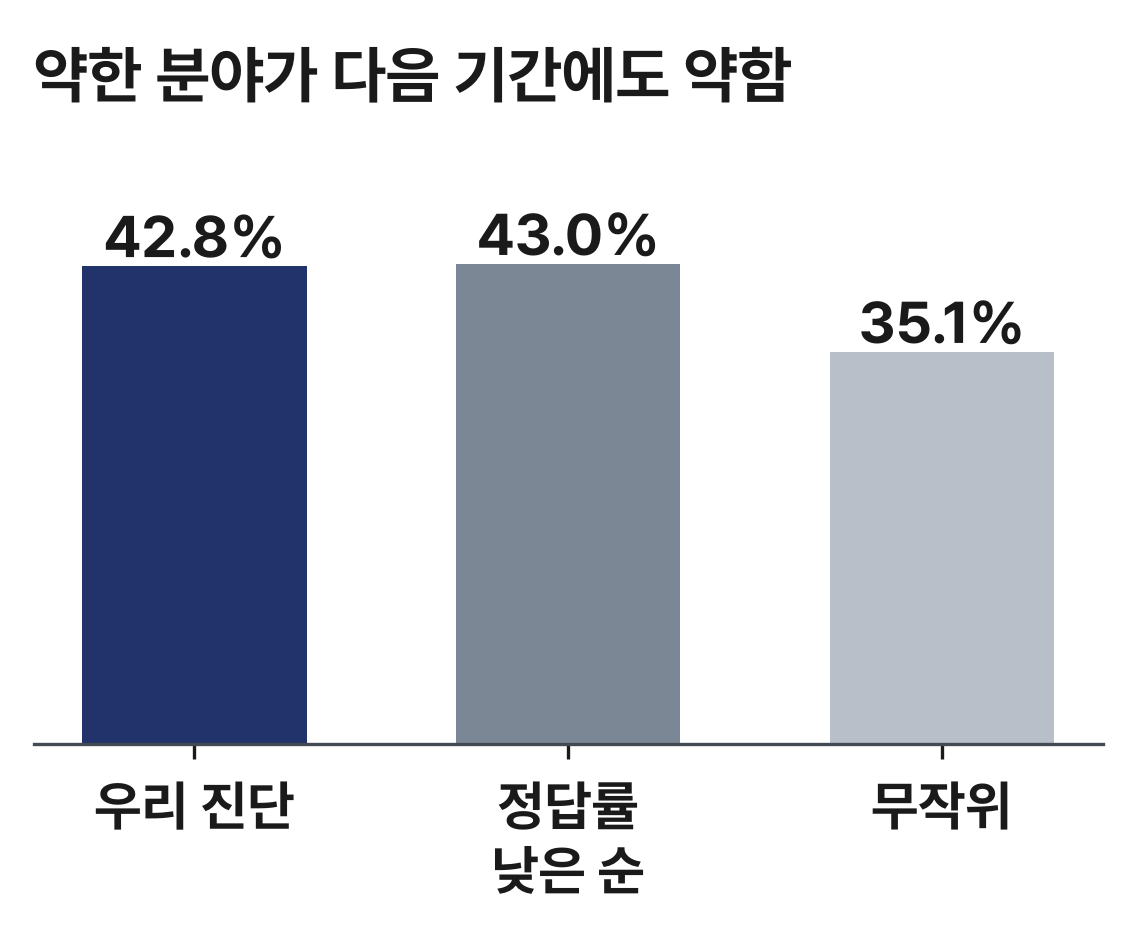
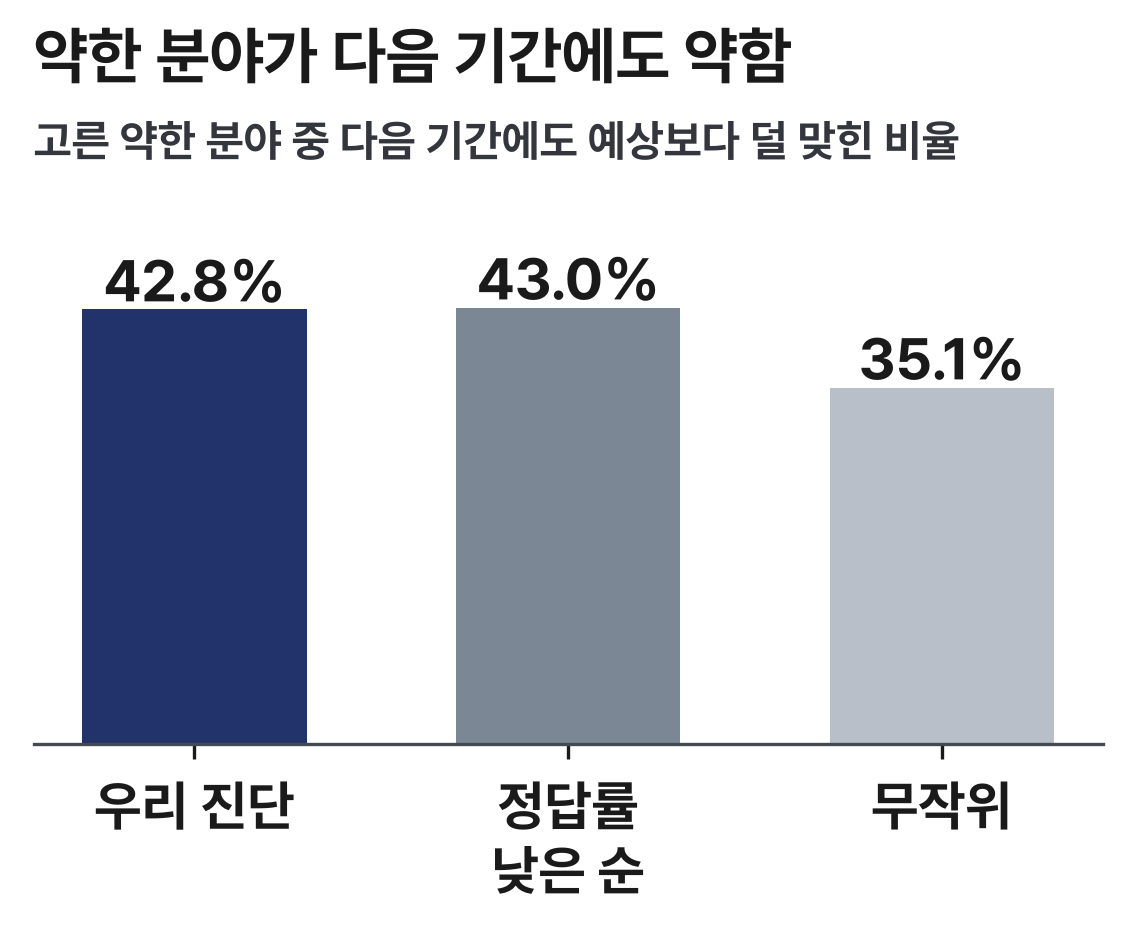
그래프 종류 다양화·설명 다듬기 (도넛, 화살표, 막대 설명 줄)
- fig2: 전체 판정을 도넛으로 (합 8,502명)
- fig3: 제목 아래 '고른 약한 분야 중 다음 기간에도 예상보다 덜 맞힌 비율' 설명 추가
- fig4: AUC를 점·화살표로, 줄 이름을 풀어 쓰고 이름은 점 위 바깥쪽·숫자는 점 아래로 배치
- README 설명 수정

diff --git a/make_figures.py b/make_figures.py
@@ -78,24 +78,27 @@ fig, ax = plt.subplots(figsize=(3.75, 3.1))
 ax.bar(["우리 진단", "정답률\n낮은 순", "무작위"], v2.values, color=[NAVY, MID, "#B8BFC9"], width=0.6)
 for i, v in enumerate(v2.values): ax.text(i, v + 0.8, f"{v:.1f}%", ha="center", fontsize=14)
 ax.set_ylim(0, 55); ax.set_yticks([]); ax.spines["left"].set_visible(False); ax.tick_params(axis="x", labelsize=13)
-ax.set_title("약한 분야가 다음 기간에도 약함", fontsize=15, loc="left", pad=8)
-fig.subplots_adjust(left=0.03, right=0.98, top=0.86, bottom=0.2); fig.savefig(OUT / "fig3_약한분야_적중률.png"); plt.close(fig)
+ax.set_title("약한 분야가 다음 기간에도 약함", fontsize=15, loc="left", pad=26)
+ax.text(0.0, 1.035, "고른 약한 분야 중 다음 기간에도 예상보다 덜 맞힌 비율", transform=ax.transAxes, fontsize=10.5, color=SUB, va="bottom")
+fig.subplots_adjust(left=0.03, right=0.98, top=0.80, bottom=0.2); fig.savefig(OUT / "fig3_약한분야_적중률.png"); plt.close(fig)
 check["그림3"] = [round(x, 1) for x in v2.values]
 
 # ---------- 그림 4 (03 분석 결과): 다음 기간 정답 예측 정확도(AUC) — '이전 → 이후'가 핵심이라 점 두 개를 화살표로 이음
 v3 = pd.read_csv(o / "step6_②예측.csv", index_col=0)["AUC"]; v4 = pd.read_csv(o / "step6_③레이팅.csv", index_col=0)["AUC"]
-rows = [("실력 점수 바꾸기", "공식 실력 점수", v4.iloc[1], "평소 실력 점수", v4.iloc[0]),
-        ("진단 결과 더하기", "공식 점수만", v3.iloc[0], "+ 진단 결과", v3.iloc[1])]
+rows = [("공식 점수 대신 평소 실력 점수로", "공식 실력 점수", v4.iloc[1], "평소 실력 점수", v4.iloc[0]),
+        ("공식 점수에 진단 결과 추가", "공식 점수만", v3.iloc[0], "+ 진단 결과", v3.iloc[1])]
 fig, ax = plt.subplots(figsize=(3.75, 3.1))
 for i, (ttl, l0, a0, l1, a1) in enumerate(rows):
-    y = 1 - i
-    ax.annotate("", xy=(a1, y), xytext=(a0, y), arrowprops=dict(arrowstyle="-|>,head_length=0.7,head_width=0.4", color=NAVY, lw=2.6, shrinkA=7, shrinkB=7))
-    ax.scatter([a0], [y], s=110, color=MID, zorder=3); ax.scatter([a1], [y], s=130, color=NAVY, zorder=3)
-    ax.text(a0 - 0.0018, y, f"{l0}\n{a0:.3f}", ha="right", va="center", fontsize=11.5, color=SUB, linespacing=1.15)
-    ax.text(a1 + 0.0018, y, f"{l1}\n{a1:.3f}", ha="left", va="center", fontsize=11.5, color=NAVY, linespacing=1.15)
-    ax.text(0.697, y + 0.36, ttl, fontsize=12.5, va="bottom")
-ax.set_xlim(0.695, 0.768); ax.set_ylim(-0.45, 1.62); ax.set_yticks([])
-ax.set_xticks([0.70, 0.72, 0.74, 0.76]); ax.tick_params(axis="x", labelsize=11)
+    y = (1 - i) * 1.3
+    ax.annotate("", xy=(a1, y), xytext=(a0, y), arrowprops=dict(arrowstyle="-|>,head_length=0.6,head_width=0.35", color=NAVY, lw=2.4, shrinkA=6, shrinkB=6))
+    ax.scatter([a0], [y], s=100, color=MID, zorder=3); ax.scatter([a1], [y], s=120, color=NAVY, zorder=3)
+    ax.text(a0 + 0.0006, y + 0.14, l0, ha="right", va="bottom", fontsize=11, color=SUB)          # 이름: 시작 점은 왼쪽으로, 끝 점은 오른쪽으로 뻗게
+    ax.text(a1 - 0.0006, y + 0.14, l1, ha="left", va="bottom", fontsize=11, color=NAVY)
+    ax.text(a0, y - 0.16, f"{a0:.3f}", ha="center", va="top", fontsize=13, color=SUB)
+    ax.text(a1, y - 0.16, f"{a1:.3f}", ha="center", va="top", fontsize=14, color=NAVY)
+    ax.text(0.7015, y + 0.50, ttl, fontsize=11.5, va="bottom")
+ax.set_xlim(0.701, 0.756); ax.set_ylim(-0.50, 2.10); ax.set_yticks([])
+ax.set_xticks([0.71, 0.72, 0.73, 0.74, 0.75]); ax.tick_params(axis="x", labelsize=10.5)
 ax.spines["left"].set_visible(False)
 ax.set_title("다음 기간 정답 예측 정확도(AUC)", fontsize=15, loc="left", pad=8)
 fig.subplots_adjust(left=0.03, right=0.97, top=0.86, bottom=0.11); fig.savefig(OUT / "fig4_예측정확도_AUC.png"); plt.close(fig)

diff --git a/README.md b/README.md
@@ -27,7 +27,7 @@ algofit_figures/
 | fig1 | 정답률 구간별 학습자 수(왼쪽)와, 그중 정답률 95% 이상인 학습자를 펼쳐 본 공식 실력 점수 분포(오른쪽). 95% 이상 막대와 오른쪽 그래프를 같은 주황색과 화살표로 연결함 | 왼쪽 막대 합 8,502명, 오른쪽 막대 합 4,081명, 정답률 90% 이상 79.3%, 점수 범위 360~3,803점 |
 | fig2 | 공식 실력 점수와 비교한 전체 판정 (합이 전체 인원이라 도넛으로 표시) | 실력 부족 1,134 / 점수만큼 5,213 / 점수 이상 2,155 (합 8,502명) |
 | fig3 | 고른 약한 분야가 다음 기간에도 약했던 비율 | 우리 진단 42.8%, 정답률 낮은 순 43.0%, 무작위 35.1% |
-| fig4 | 다음 기간 정답 예측 정확도(AUC). '이전 → 이후'를 점과 화살표로 표시함 (가로축 0.695~0.768) | 공식 실력 점수 0.722, 평소 실력 점수 0.743, 공식 점수만 0.723, 진단 추가 0.732 |
+| fig4 | 다음 기간 정답 예측 정확도(AUC). '이전 → 이후'를 점과 화살표로 표시함 (가로축 0.701~0.756) | 공식 실력 점수 0.722, 평소 실력 점수 0.743, 공식 점수만 0.723, 진단 추가 0.732 |
 | fig5 | 풀이 습관 지표 9개를 '유형이 가장 잘 나뉘는 2개 축'(선형 판별 분석, LDA)으로 요약해 그림. 옅은 점 = 학습자(1,200명 무작위 표시), 타원 = 유형별 학습자가 모인 범위(표준편차 1배), 큰 도형 = 유형 중심. 유형마다 색과 도형이 다름(● 남색 ▲ 보라 ■ 청록 ◆ 주황). 그리기 전에 모든 학습자가 가장 가까운 K-means 중심의 유형과 같은지 확인함(assert) | 로직 점검형 3,788 / 도전적 시행착오형 2,402 / 효율 개선 필요형 1,606 / 문법 실수·빠른 재제출형 706명 |
 
 그래프 크기(인치)를 슬라이드에 넣는 크기와 같게 정했습니다. 그래서 코드에 적은 글자 크기(pt)가 슬라이드에서도 그대로 보입니다.
